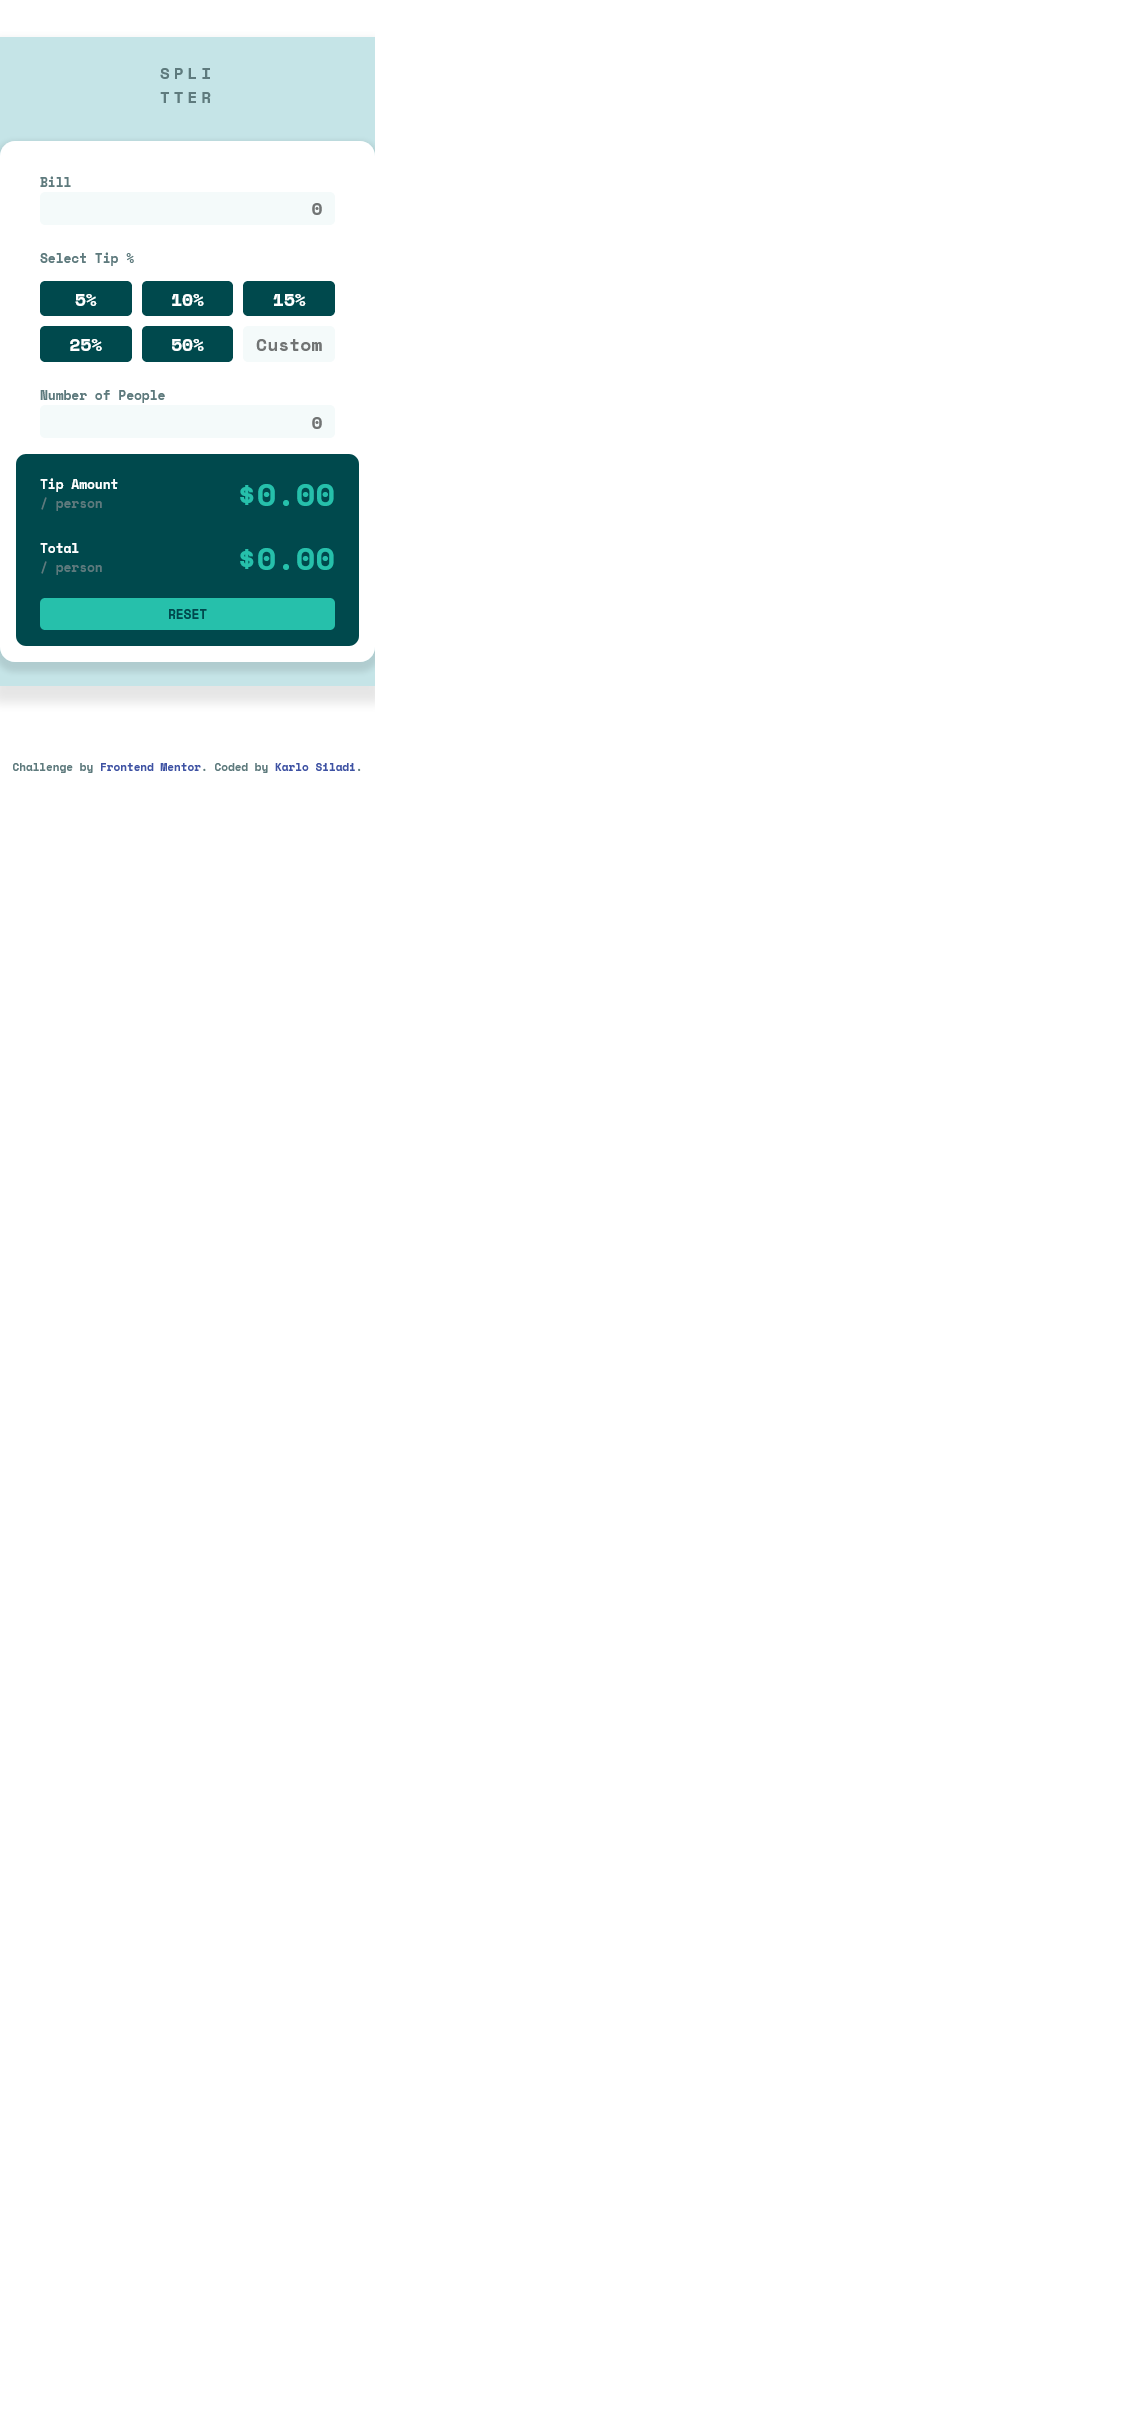
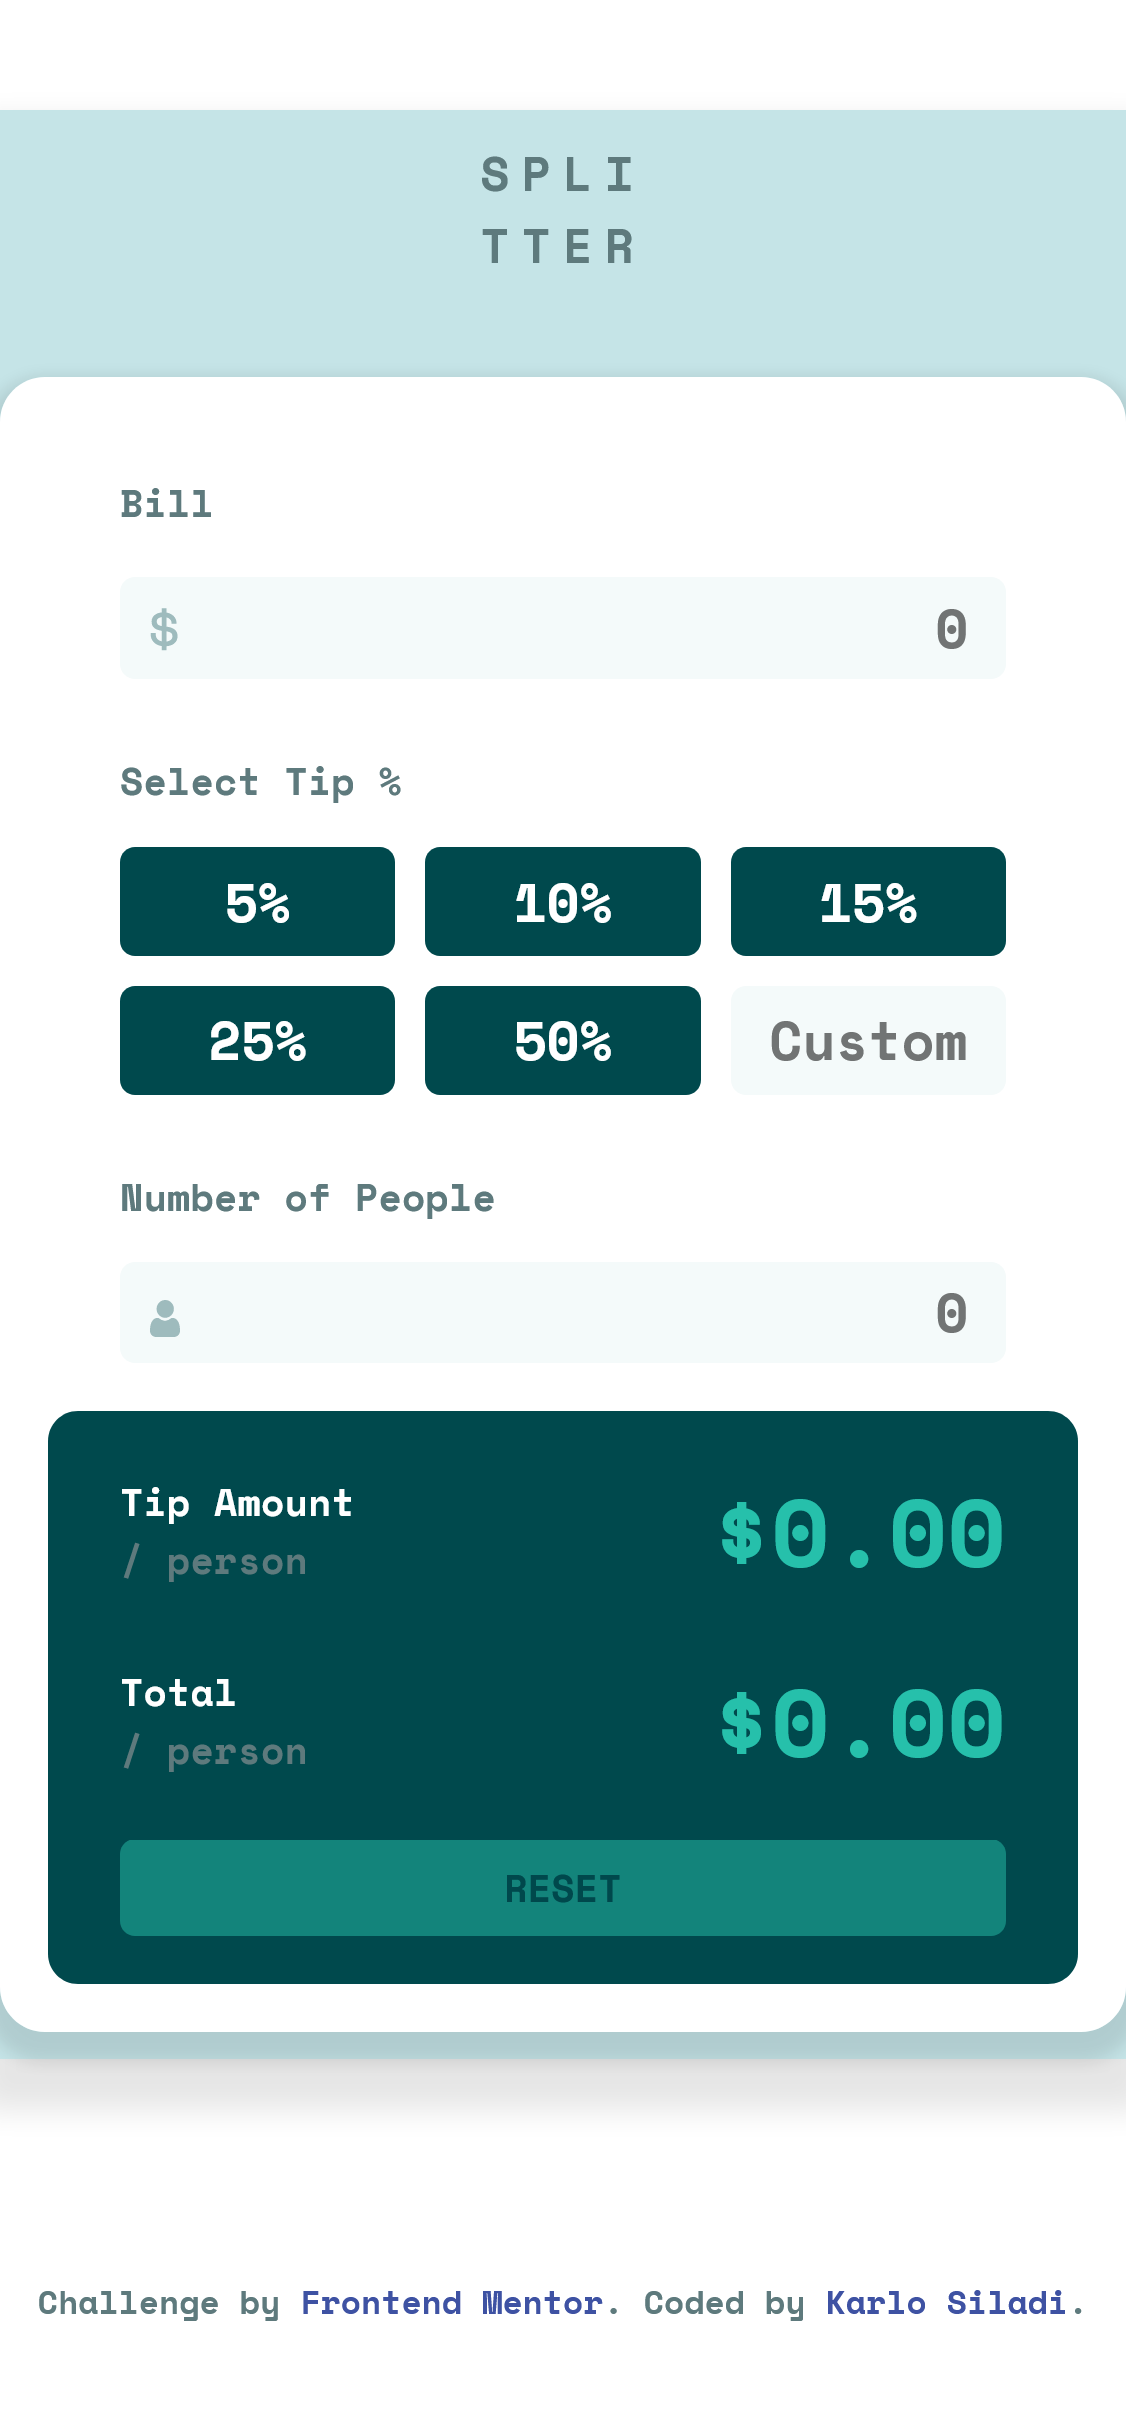
README updated

diff --git a/assets/css/style.css b/assets/css/style.css
@@ -247,9 +247,9 @@ h1 {
   background-color: var(--light-grayish-cyan);
 }
 
-.reset-button:disabled, 
+.reset-button:disabled,
 .reset-button[disabled],
-.reset-button:disabled .reset-button:hover{
+.reset-button:disabled .reset-button:hover {
   cursor: auto;
   background-color: var(--strong-cyan);
   filter: opacity(0.5);
@@ -294,5 +294,13 @@ h1 {
     outline-color: var(--strong-cyan);
     text-align: right;
     padding: 0.3rem;
+  }
+
+  .bill-value-container img,
+  .people-number-container img {
+    width: 10px;
+    position: relative;
+    top: 25px;
+    left: 10px;
   }
 }

diff --git a/README.md b/README.md
@@ -103,7 +103,8 @@ For future updates I will refactor this project using SCSS and one of frontend f
 - [JavaScript Switch Statement](https://www.w3schools.com/js/js_switch.asp) - This one helped me to write DRY code.
 - [typeof operator](https://developer.mozilla.org/en-US/docs/Web/JavaScript/Reference/Operators/typeof) - This helped me during development
 - [parseInt()](https://developer.mozilla.org/en-US/docs/Web/JavaScript/Reference/Global_Objects/parseInt)
-- [parseFloar()](https://developer.mozilla.org/en-US/docs/Web/JavaScript/Reference/Global_Objects/parseFloat)
+- [parseFloat()](https://developer.mozilla.org/en-US/docs/Web/JavaScript/Reference/Global_Objects/parseFloat)
+- [Changing HTML Style](https://www.w3schools.com/js/js_htmldom_css.asp) - this helped me to style a HTML element from JavaScript file
 
 ## Author
 
